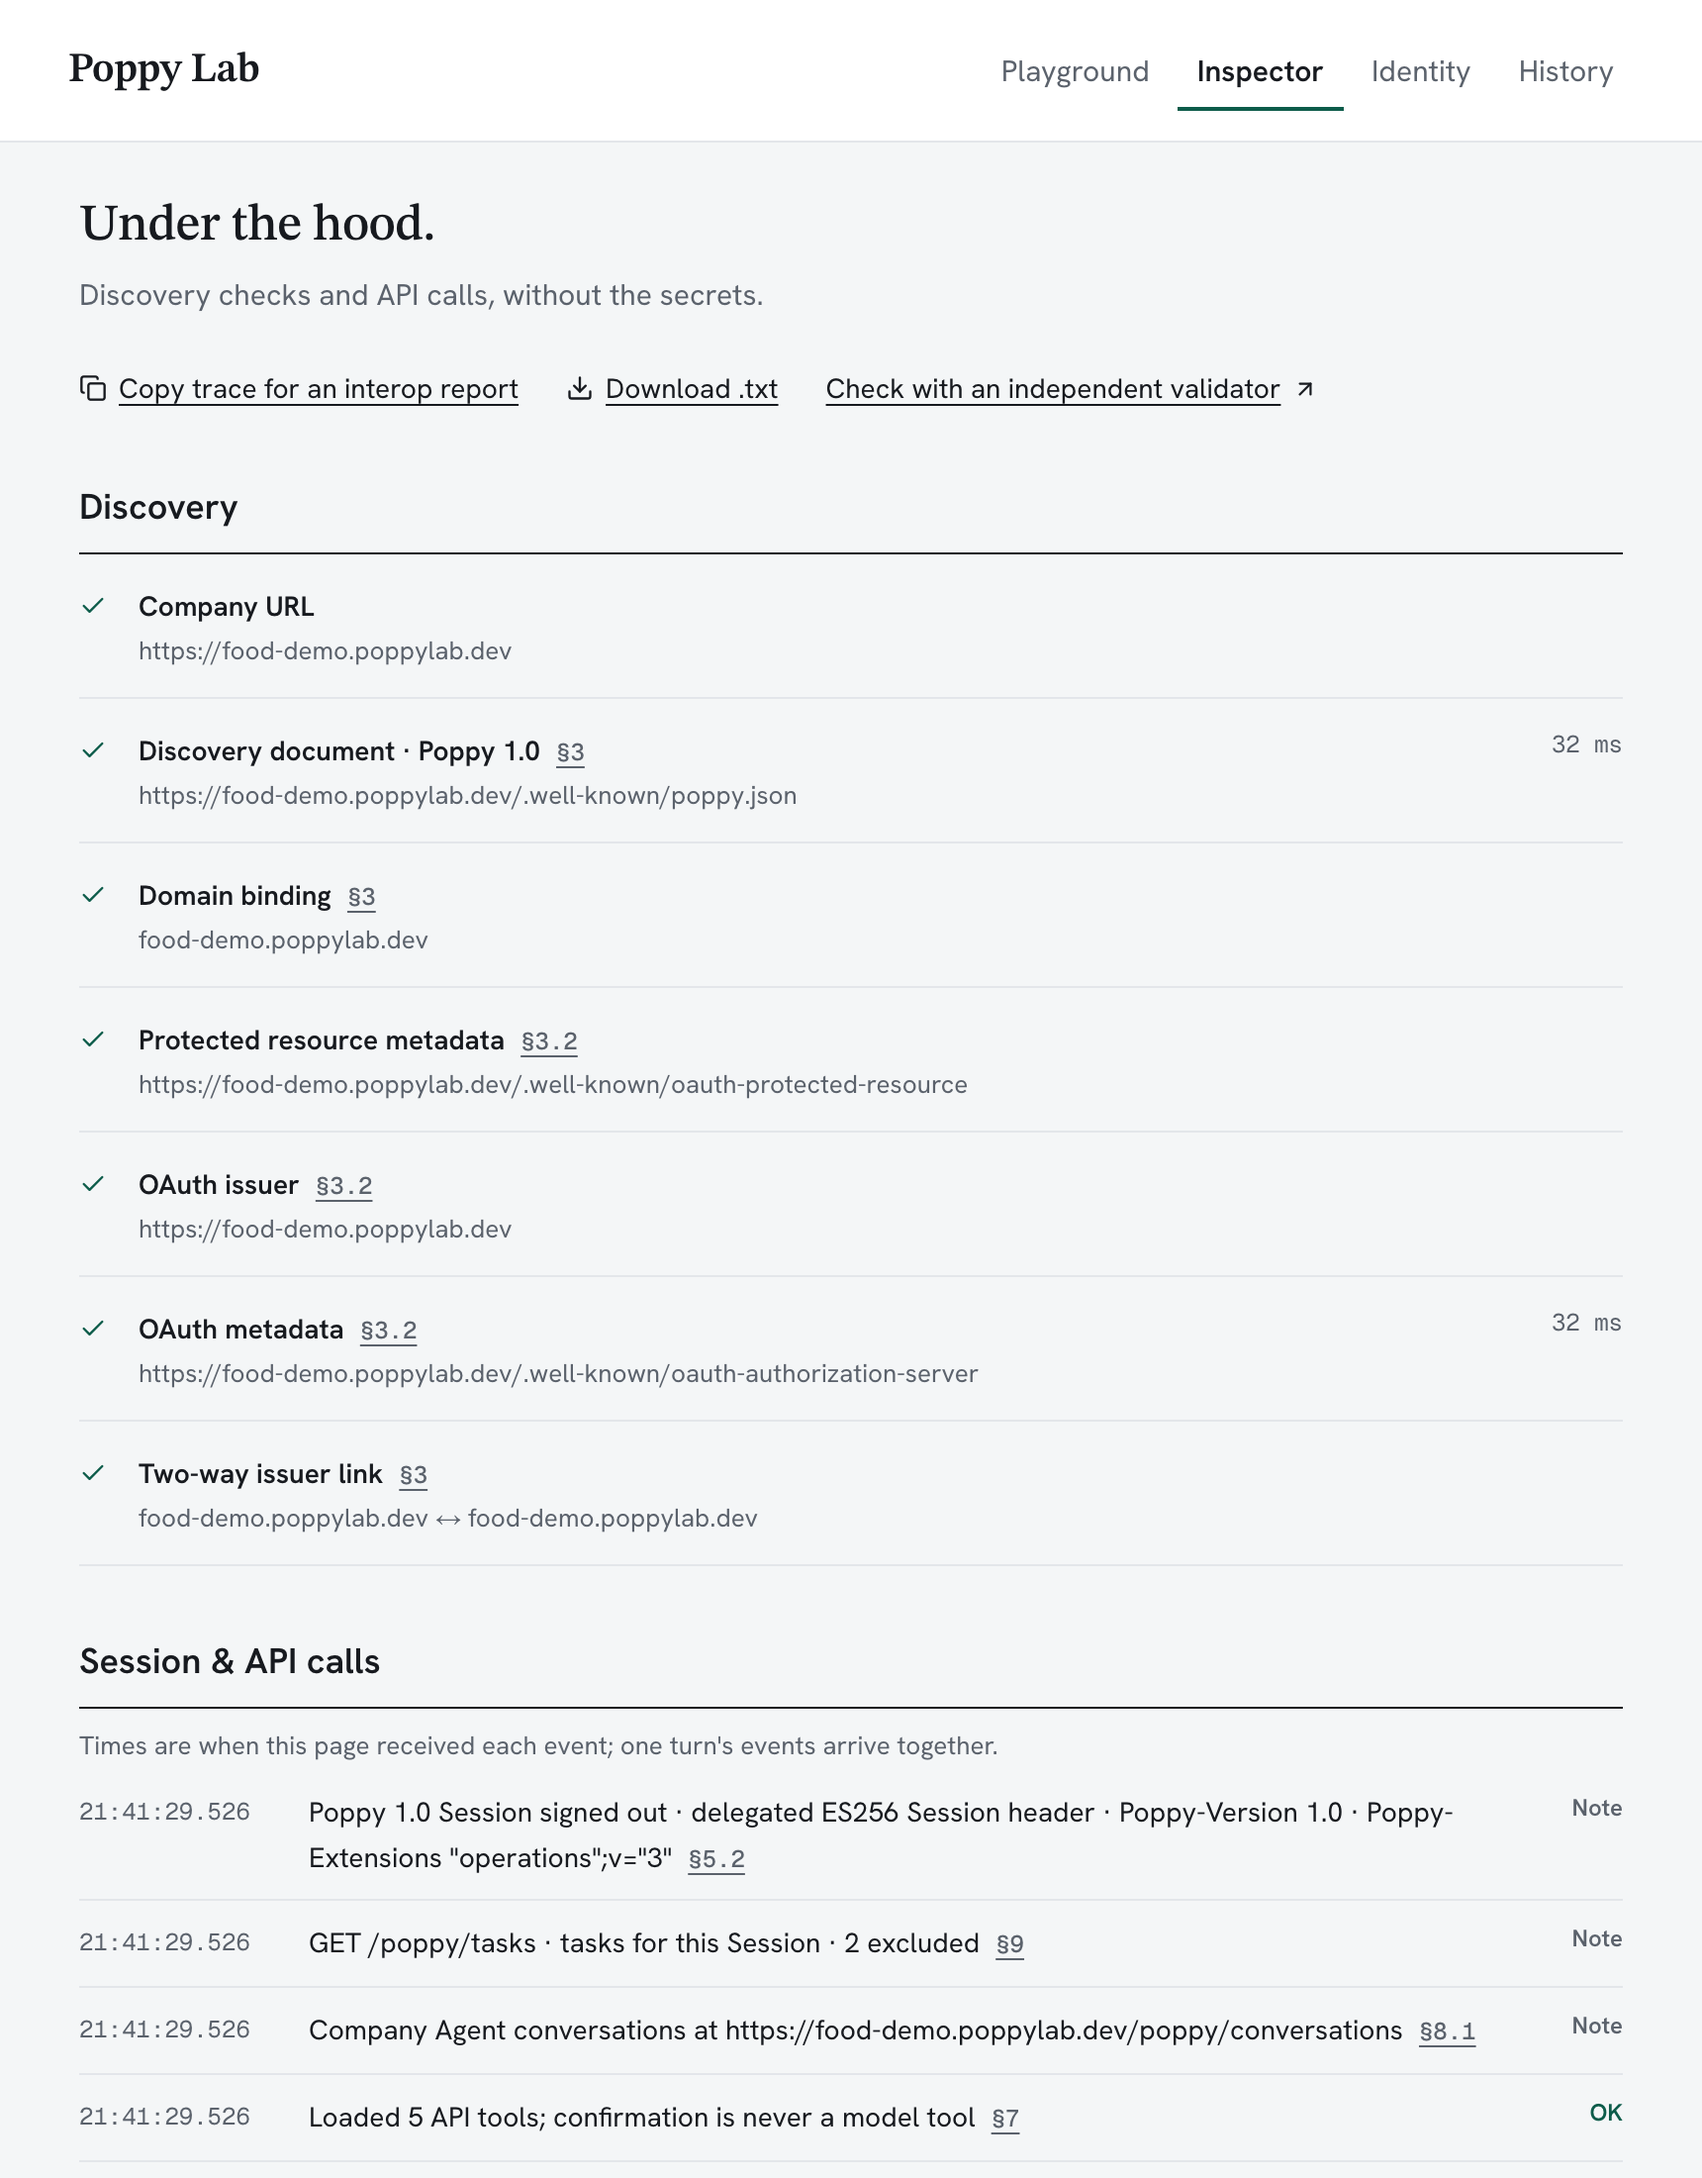
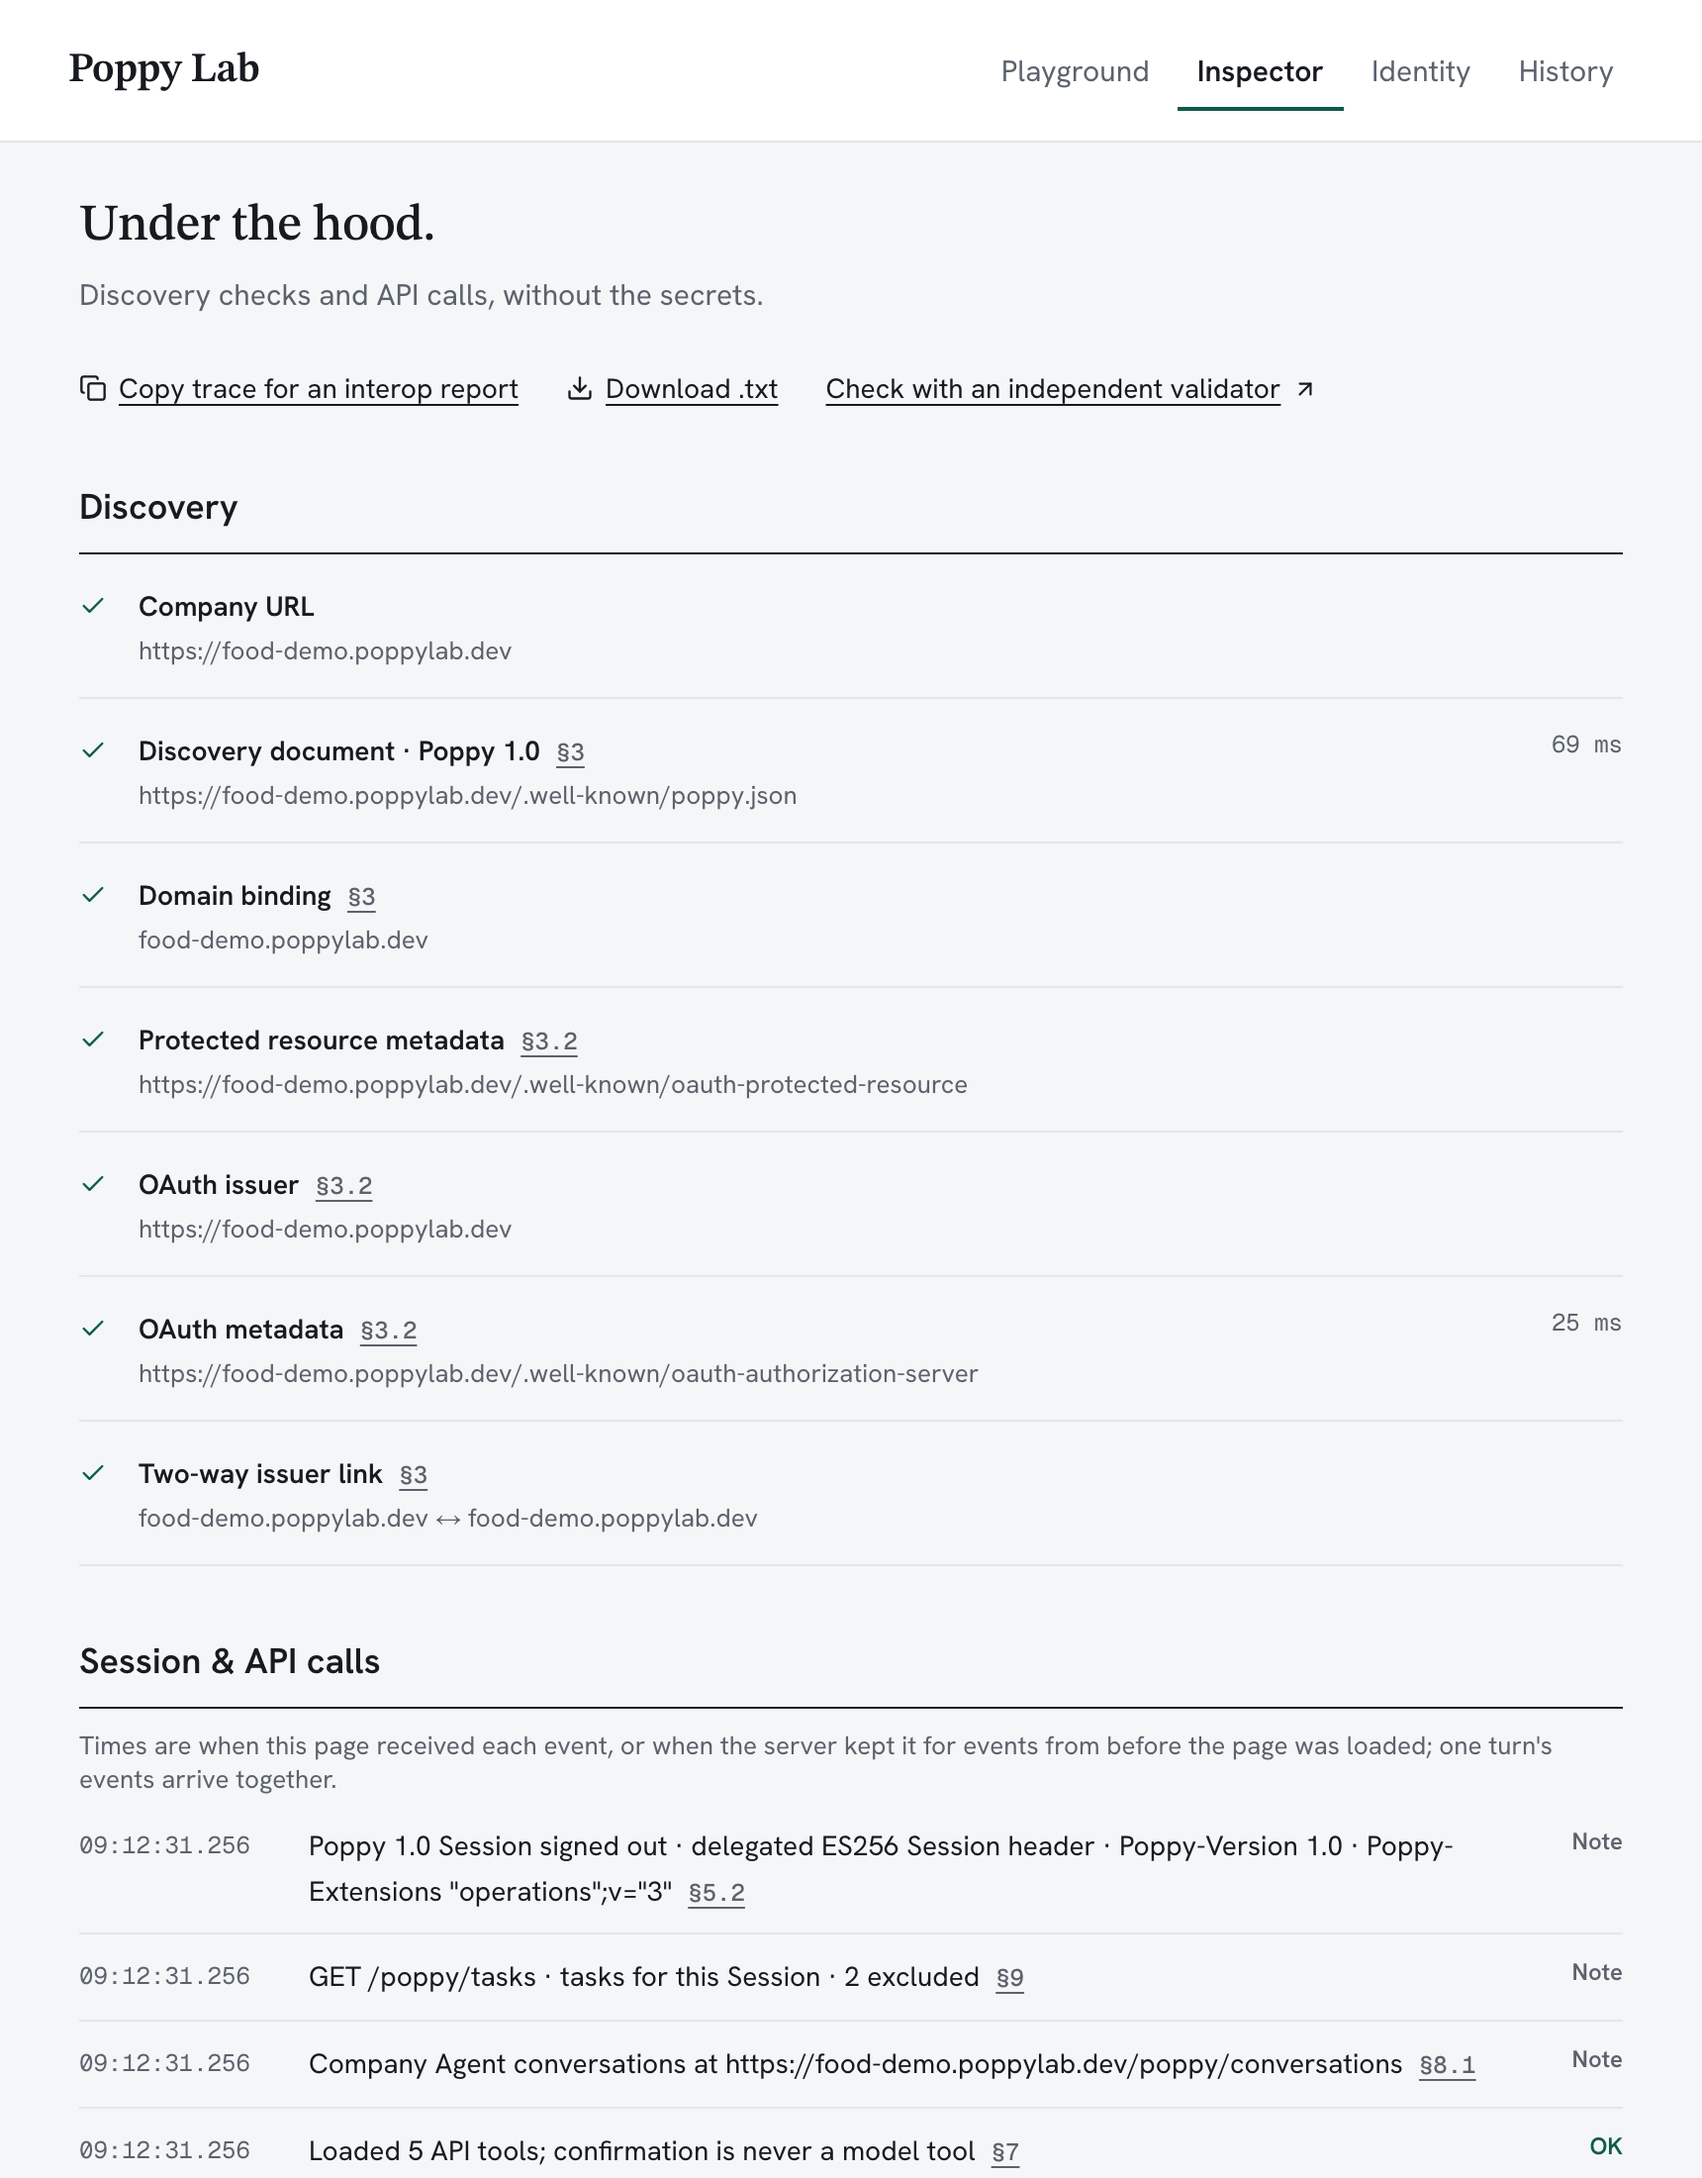
Retake Changing an order after the fixes of 26 November
Ran the whole process again against production on 26 November 2026 and
retook all twelve screenshots (four came out byte for byte the same).

On screen: Lantern's consent sheet says "Has a scheduled order" for each
test customer, the approval panel has its buttons under a hairline, the
Inspector's note about times is longer, and the account page lists the
connected agent in the consent's words in place of a button.

In the text: the date, the operation and expiry of this run, step 11 (time
of the record, fifteen minutes, the Connected agents list) and one sentence
on the Inspector keeping the calls with the conversation.

diff --git a/docs/learn/how-it-works/changing-an-order.md b/docs/learn/how-it-works/changing-an-order.md
@@ -7,7 +7,7 @@ makes the change after Elena has read the exact terms and approved them, and
 at no point does Iris hold her password or decide for her.
 
 This page follows that request screen by screen, on Iris's side and on
-Lantern's. Every screenshot is from the live lab, taken on 25 November 2026.
+Lantern's. Every screenshot is from the live lab, taken on 26 November 2026.
 
 ## Who does what
 
@@ -175,7 +175,7 @@ Lantern's answer to the request, as Iris received it:
 ```json
 {
   "status": "approval_required",
-  "operation_id": "op_3wYLlRHeudkKG__xQVsgdhW2",
+  "operation_id": "op_T28R3qgsjNNlk-qUOdUM-2cL",
   "summary": "Change order ord_LNB1001 for Elena Maren. Move delivery from Friday 18:30–19:00 to Sunday 13:00–13:30. New dishes: 2 × Shoyu ramen, 1 × Salted edamame, 1 × Matcha ice cream. New total USD 43.00 (was USD 37.00; USD 6.00 more, charged — simulated, no real payment).",
   "terms": {
     "order_id": "ord_LNB1001",
@@ -189,7 +189,7 @@ Lantern's answer to the request, as Iris received it:
     "currency": "USD",
     "payment": "Simulated card on file — no real charge"
   },
-  "expires_at": "2026-11-25T20:52:23.895Z"
+  "expires_at": "2026-11-26T08:27:26.713Z"
 }
 ```
 
@@ -249,14 +249,18 @@ dishes, 43 dollars.
 
 ### 11. See what the agent did
 
-![Lantern's record of the agent's activity: the change, applied on 25 November at 20:42 UTC, approved by you in your agent](../../../apps/playground/public/learn-media/how-it-works/changing-an-order/11-agent-activity-at-lantern.webp "Lantern shows the customer what her agent asked for and who approved it.")
+![Lantern's record of the agent's activity: the change, applied on 26 November at 08:19 UTC, approved by you in your agent. Lower down, under Connected agents, Iris from poppylab.dev with what it may read and propose, the day its access ends and a Disconnect button](../../../apps/playground/public/learn-media/how-it-works/changing-an-order/11-agent-activity-at-lantern.webp "Lantern shows the customer what her agent asked for, who approved it, and which agents are connected.")
 
 Lower on the same page, Lantern lists what Elena's agent has asked for
 recently. The entry for this change says it was applied, at what time, and
 that Elena approved it in her agent. A customer who wonders how an order
 changed finds the answer on the company's site. Lantern keeps the entry: the
-screenshot is from about thirteen minutes after the approval, after Iris had
-read the order once more.
+screenshot is from fifteen minutes after the approval, after Iris had read the
+order once more.
+
+Under Connected agents, Lantern lists Iris in the words of its consent page:
+what it may read, what it may propose, and when its access ends. The
+Disconnect button under the entry is where Elena takes the permission away.
 
 ## What Lantern controls
 
@@ -276,6 +280,8 @@ Lantern stays in charge of its own business throughout.
 ![The Inspector view lists the discovery checks and the API calls of this conversation](../../../apps/playground/public/learn-media/how-it-works/changing-an-order/12-inspector.webp "The Inspector shows each check and each call, without the secrets.")
 
 The Inspector view of the playground lists every check and every call behind
-the screens above, and the trace can be downloaded.
+the screens above, and the trace can be downloaded. The calls stay with the
+conversation, so they are listed again after a reload or when the conversation
+is opened from History.
 [One task, request by request](../one-task.md) walks through the same kind of
 change with each request and response written out.
